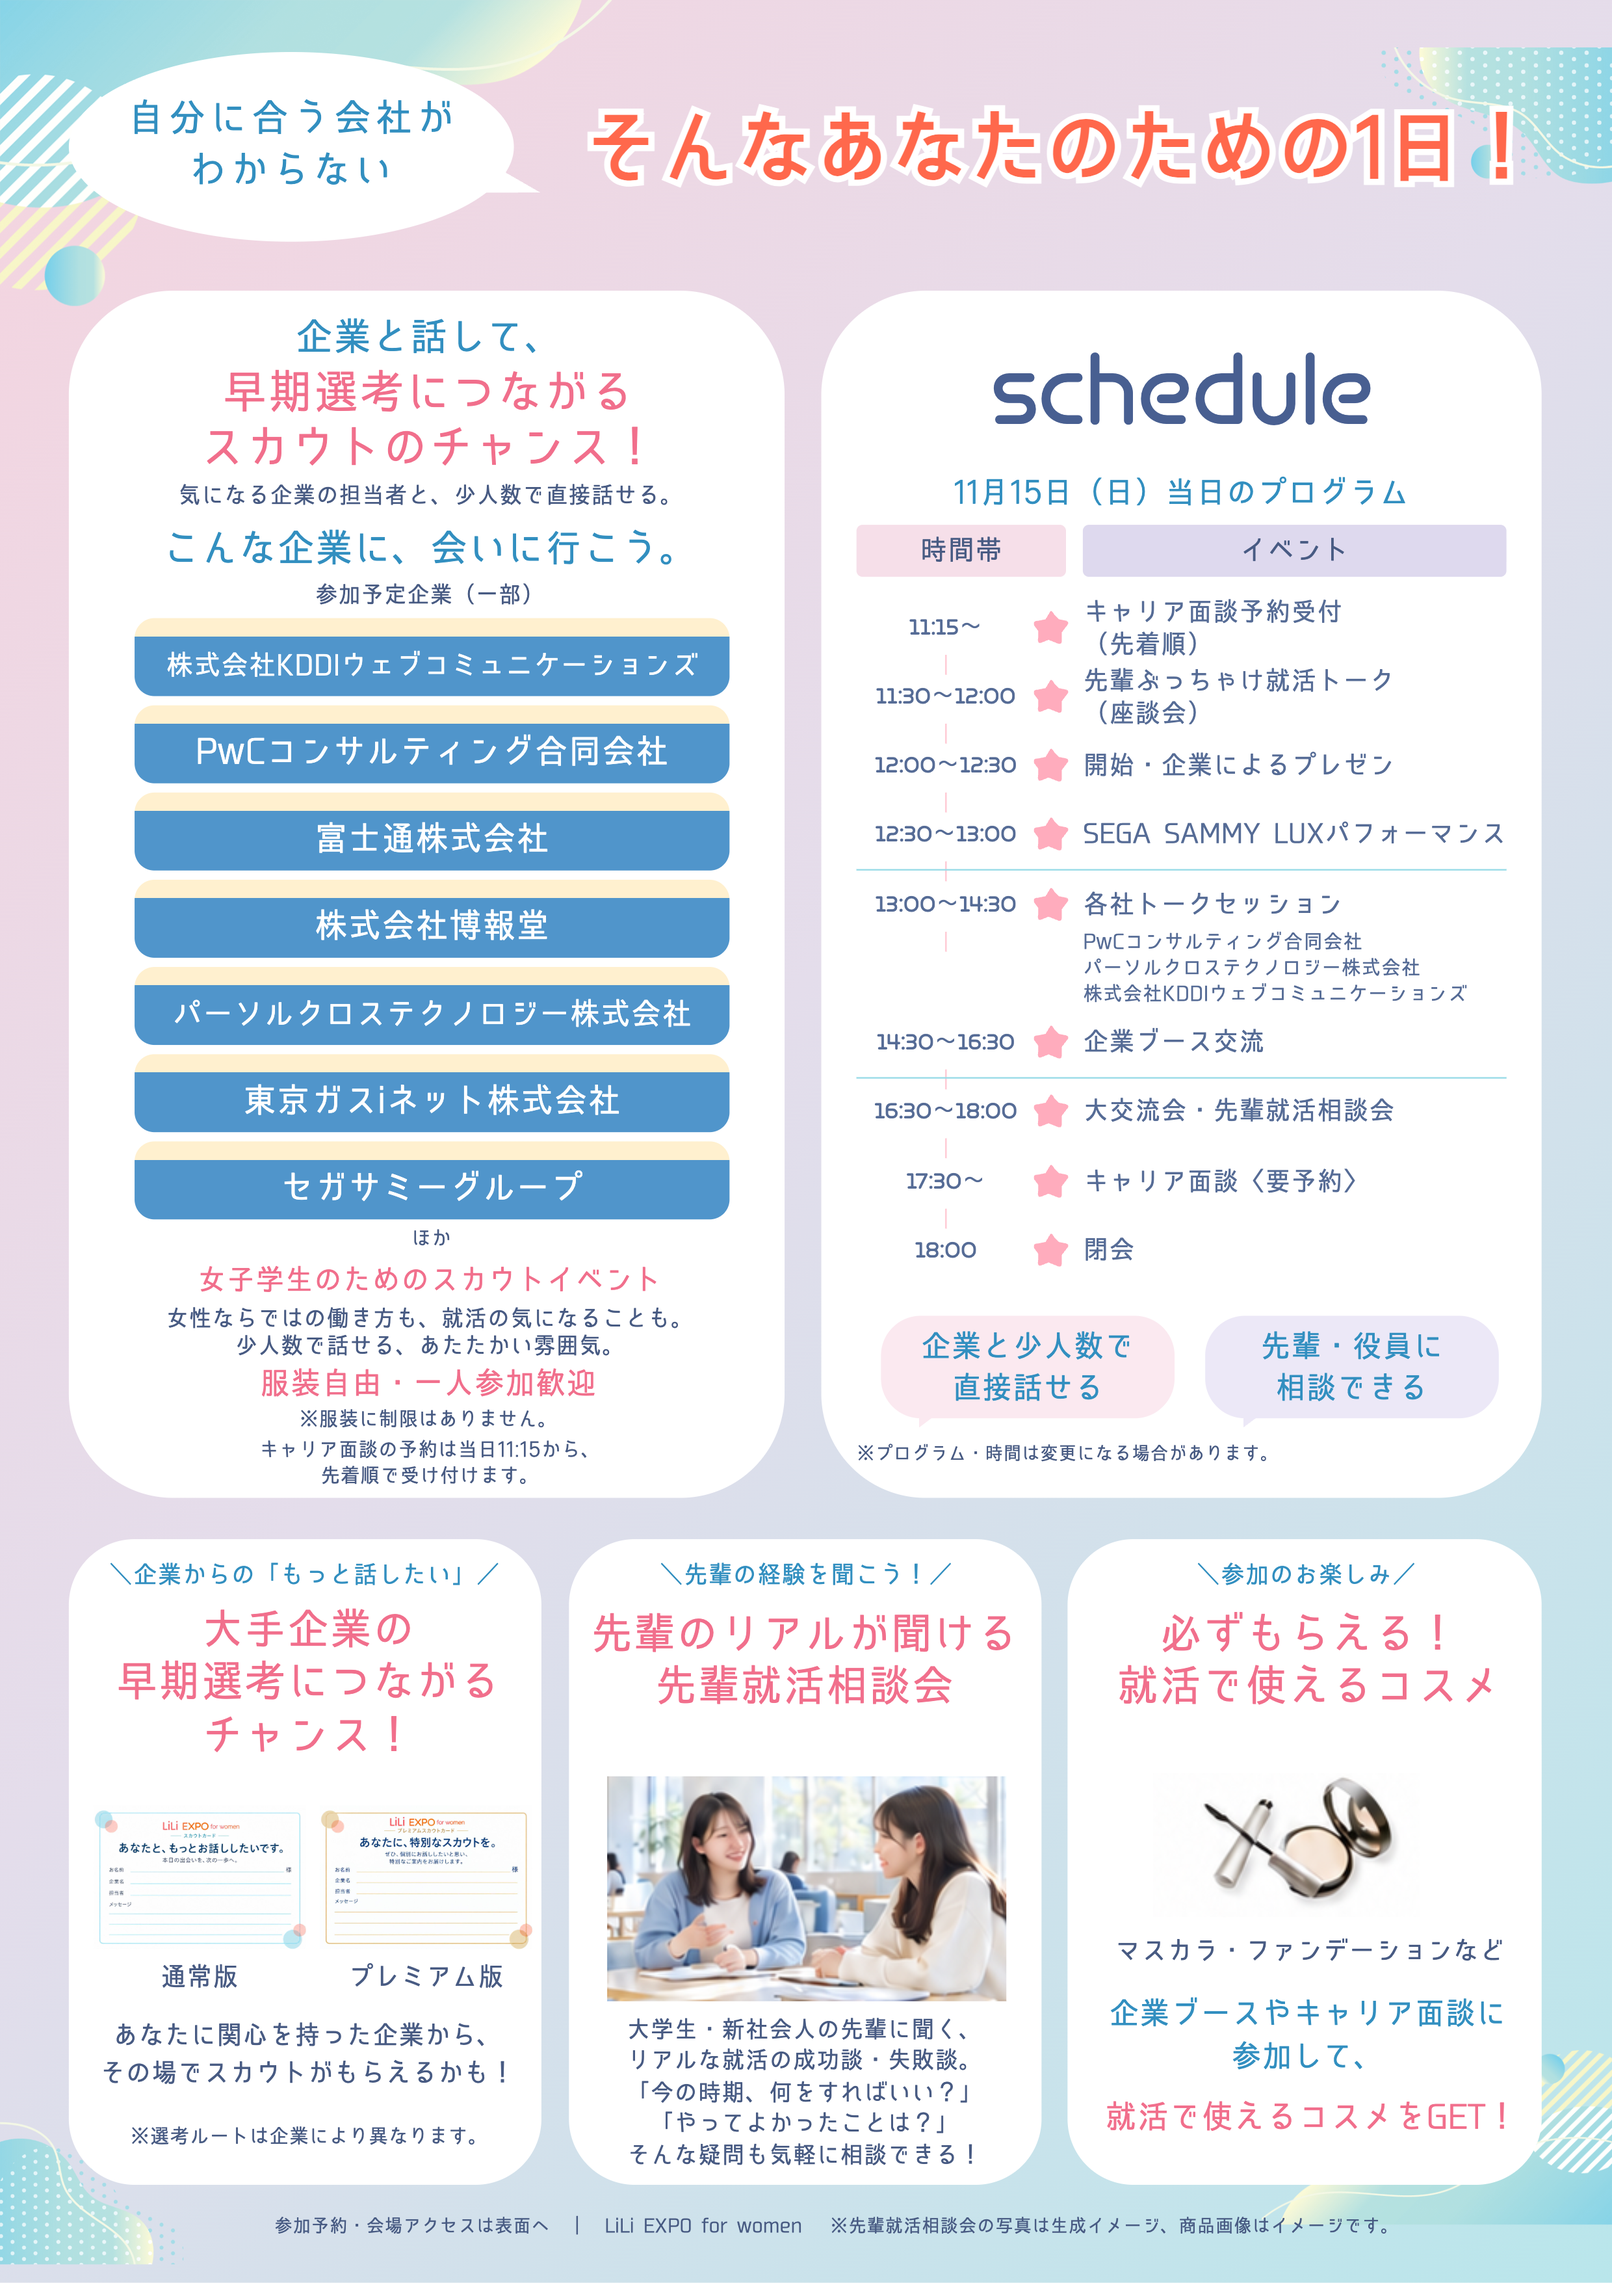
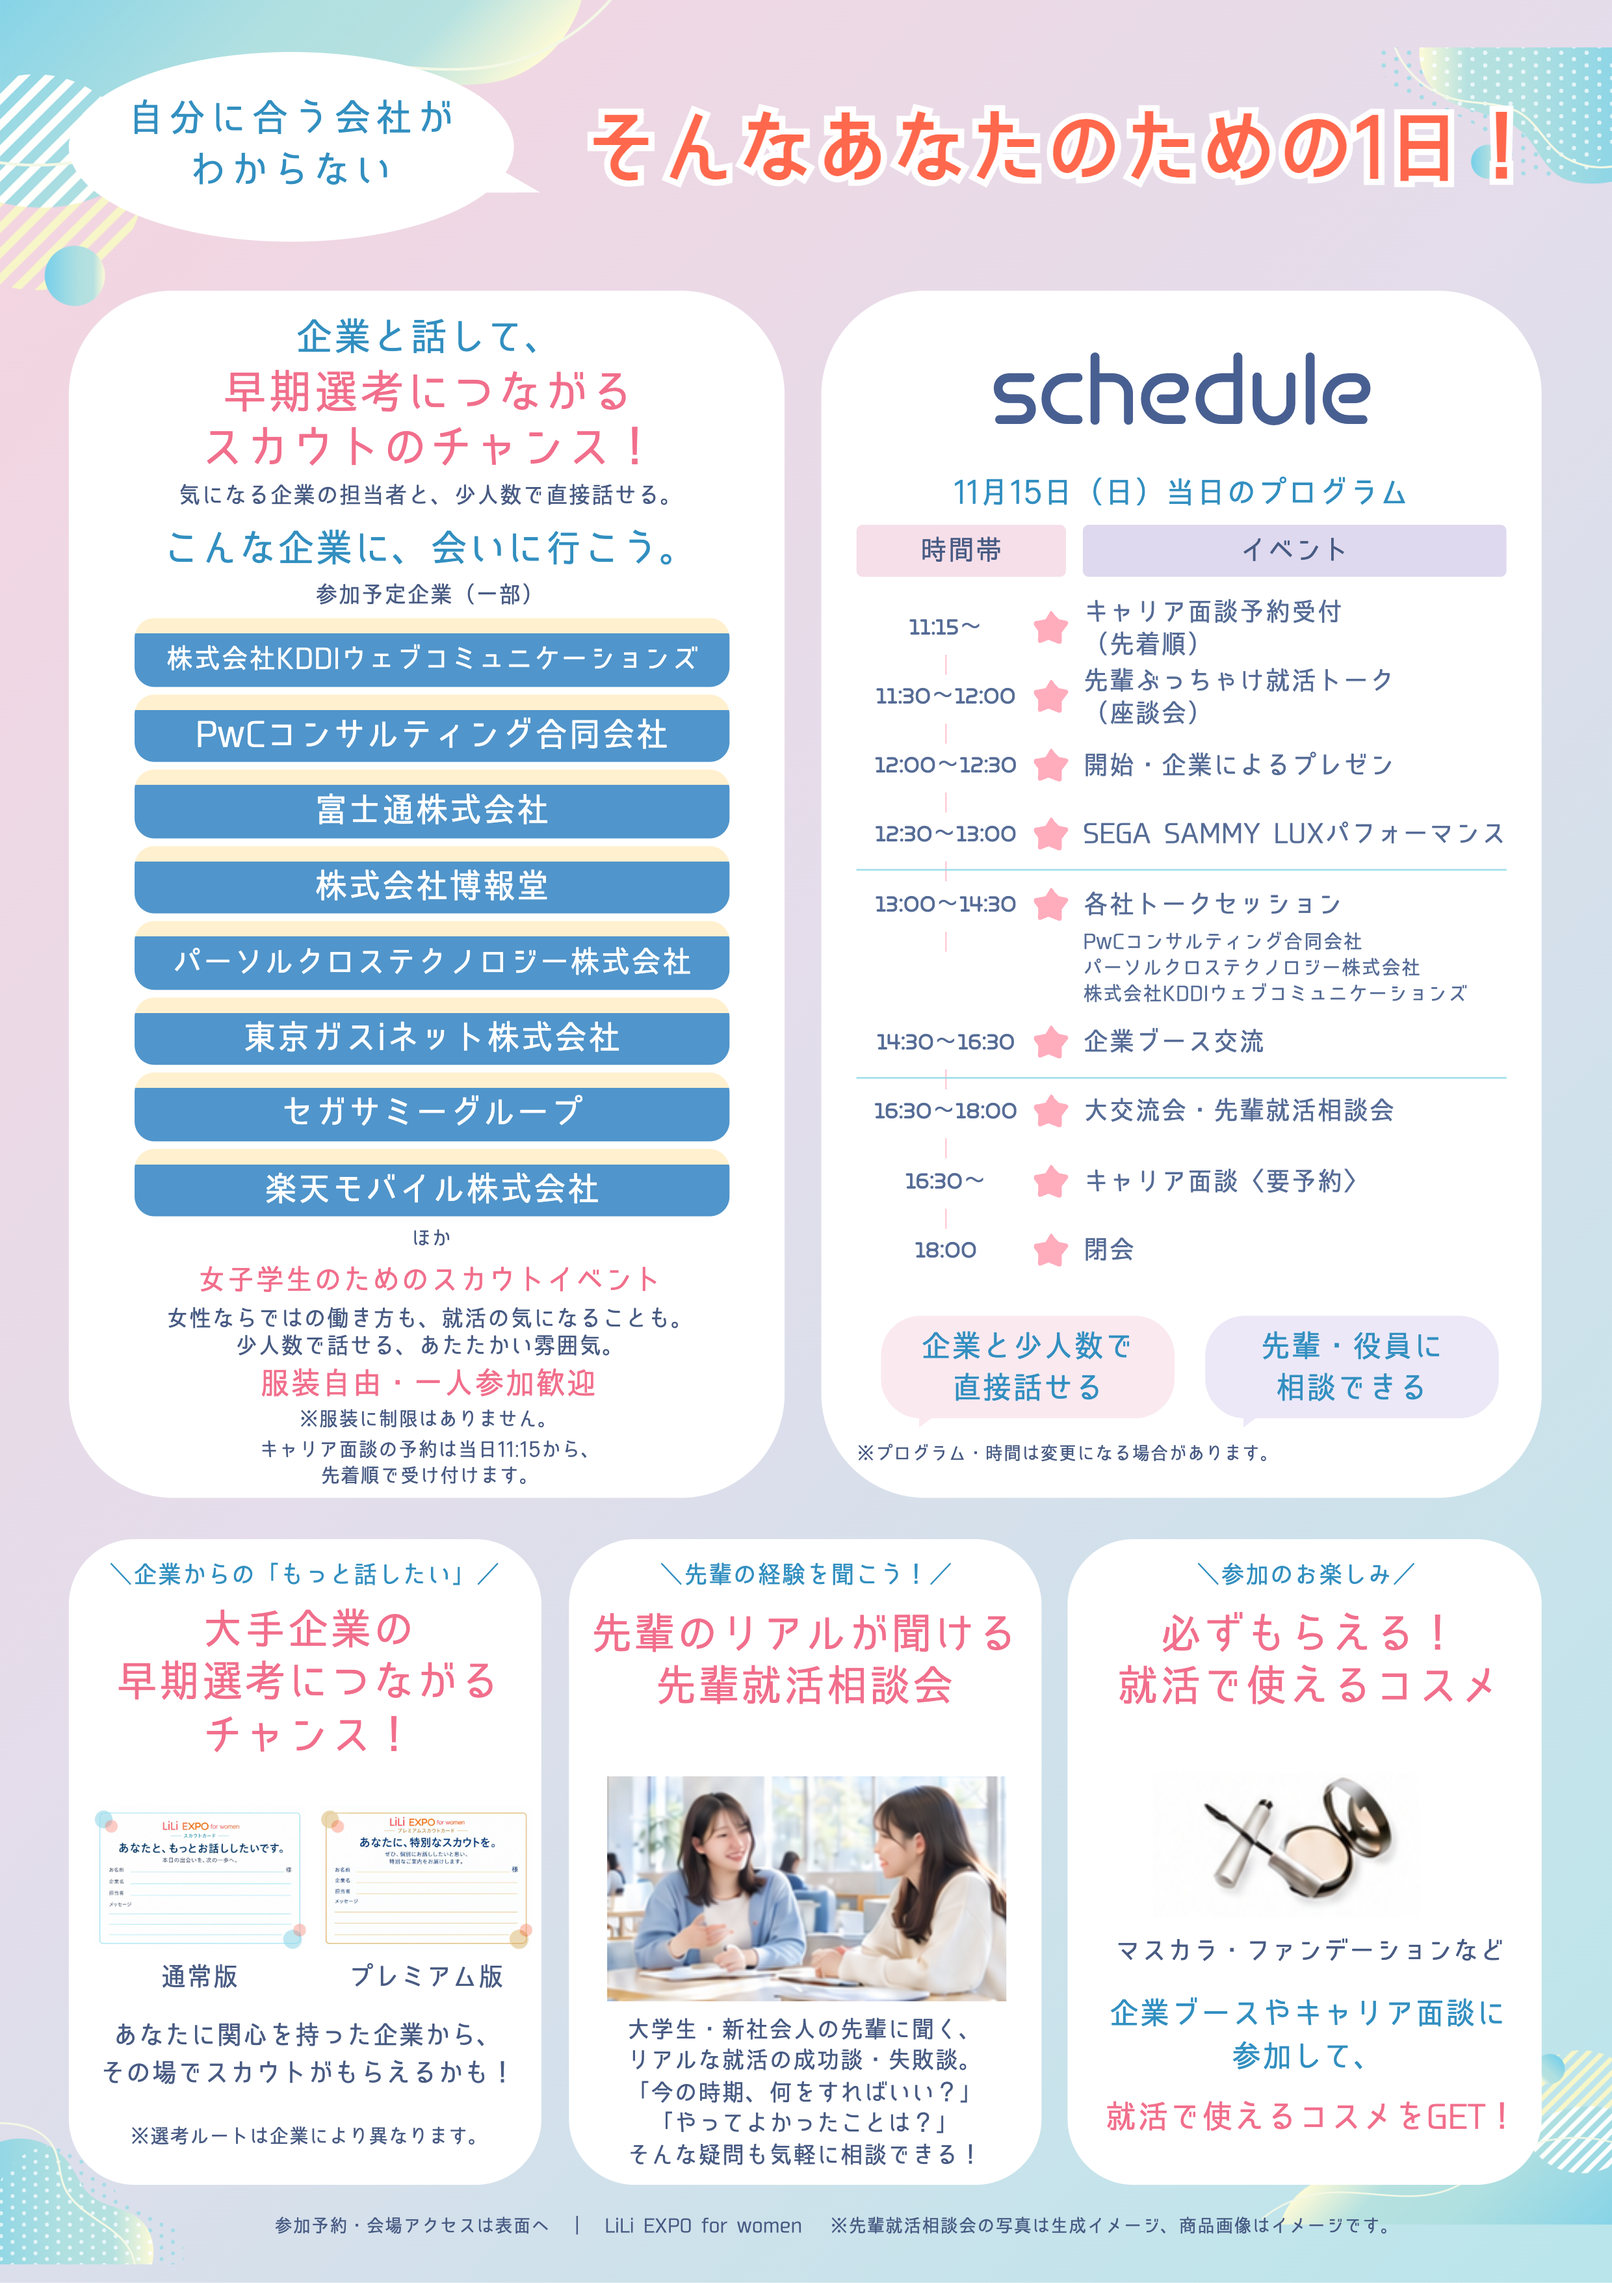
当日スケジュールとチラシ裏面を更新

Changed region(s): [[0.0621, 0.2794, 0.4657, 0.5278]]

diff --git a/index.html b/index.html
@@ -1670,7 +1670,7 @@
           </div>
 
           <div class="flyer-preview" id="flyerBackPreview">
-            <img src="assets/lili-expo-2026-11-15-back.png?v=4" alt="LiLi EXPO 2026年11月15日 最新チラシ 裏面" loading="lazy">
+            <img src="assets/lili-expo-2026-11-15-back.png?v=5" alt="LiLi EXPO 2026年11月15日 最新チラシ 裏面" loading="lazy">
           </div>
 
         </article>
@@ -1733,7 +1733,7 @@
         </div>
 
         <p>
-          集合 11時15分／開始 12時〜18時
+          集合 11時15分／プログラム 11時30分〜17時（キャリア面談は17時30分まで）
         </p>
 
       </div>
@@ -1762,16 +1762,16 @@
           </thead>
           <tbody>
             <tr>
-              <th scope="row"><span class="period-number">受付</span><time>11:15〜</time></th>
-              <td><span>CAREER COUNSELING</span><strong>キャリア面談予約受付〈先着順〉</strong><small>キャリア面談を希望する方は、受付時にお申し込みください</small></td>
+              <th scope="row"><span class="period-number">集合</span><time>11:15</time></th>
+              <td><span>RECEPTION</span><strong>新規学生集合</strong><small>受付後、会場へご案内します</small></td>
             </tr>
             <tr>
-              <th scope="row"><span class="period-number">座談会</span><time>11:30〜12:00</time></th>
-              <td><span>REAL JOB-HUNTING TALK</span><strong>先輩ぶっちゃけ就活トーク</strong><small>先輩のリアルな就活経験や、本音を聞ける座談会</small></td>
+              <th scope="row"><span class="period-number">プレゼン</span><time>11:30〜12:00</time></th>
+              <td><span>COMPANY PRESENTATION</span><strong>企業プレゼン</strong><small>参加企業の事業や仕事を知る</small></td>
             </tr>
             <tr>
-              <th scope="row"><span class="period-number">START</span><time>12:00〜12:30</time></th>
-              <td><span>OPENING</span><strong>開始・企業によるプレゼン</strong><small>参加企業の事業や仕事を知る</small></td>
+              <th scope="row"><span class="period-number">特別講演</span><time>12:00〜12:30</time></th>
+              <td><span>GUEST TALK SESSION</span><strong>ゲスト企業トークセッション</strong><small>企業のリアルな働き方やキャリアについて聞く</small></td>
             </tr>
             <tr class="special-program-row">
               <th scope="row"><span class="period-number">特別公演</span><time>12:30〜13:00</time></th>
@@ -1788,24 +1788,20 @@
               </td>
             </tr>
             <tr>
-              <th scope="row"><span class="period-number">トーク</span><time>13:00〜14:30</time></th>
-              <td><span>COMPANY TALK SESSION</span><strong>各社トークセッション</strong><small>PwCコンサルティング合同会社／パーソルクロステクノロジー株式会社／株式会社KDDIウェブコミュニケーションズ</small></td>
+              <th scope="row"><span class="period-number">発表</span><time>13:00〜13:50</time></th>
+              <td><span>RESULT ANNOUNCEMENT</span><strong>結果発表</strong><small>プレゼンテーションの結果を発表します</small></td>
             </tr>
             <tr>
-              <th scope="row"><span class="period-number">第2部</span><time>14:30〜16:30</time></th>
-              <td><span>COMPANY BOOTH</span><strong>企業ブース交流</strong><small>担当者と直接話し、事業や仕事内容を知る</small></td>
+              <th scope="row"><span class="period-number">ブース</span><time>14:00〜16:00</time></th>
+              <td><span>COMPANY BOOTH</span><strong>ブース訪問</strong><small>担当者と直接話し、事業や仕事内容を知る</small></td>
             </tr>
             <tr>
-              <th scope="row"><span class="period-number">第3部</span><time>16:30〜18:00</time></th>
-              <td><span>NETWORKING</span><strong>大交流会・先輩就活相談会</strong><small>企業や学生と交流し、就活経験を先輩に聞く</small></td>
+              <th scope="row"><span class="period-number">交流</span><time>16:00〜17:00</time></th>
+              <td><span>NETWORKING</span><strong>大交流会</strong><small>企業や学生と気軽に交流する時間です</small></td>
             </tr>
             <tr>
-              <th scope="row"><span class="period-number">相談</span><time>17:30〜</time></th>
+              <th scope="row"><span class="period-number">面談</span><time>16:00〜17:30</time></th>
               <td><span>CAREER COUNSELING</span><strong>キャリア面談〈要予約〉</strong><small>役員・管理職と基本1対1。参加申込と同じフォームから予約</small></td>
-            </tr>
-            <tr>
-              <th scope="row"><span class="period-number">閉会</span><time>18:00</time></th>
-              <td><span>CLOSE</span><strong>閉会</strong><small>気をつけてお帰りください</small></td>
             </tr>
           </tbody>
         </table>
@@ -1841,7 +1837,7 @@
           </div>
           <div>
             <dt>TIME</dt>
-            <dd>集合 11時15分／開始 12時〜18時</dd>
+            <dd>集合 11時15分／プログラム 11時30分〜17時<small>キャリア面談は17時30分まで</small></dd>
           </div>
           <div>
             <dt>VENUE</dt>
@@ -1919,7 +1915,7 @@
 
         <details>
           <summary>開催時間は決まっていますか？</summary>
-          <p>集合は11時15分、イベントは12時開始・18時終了の予定です。</p>
+          <p>集合は11時15分、プログラムは11時30分から17時までです。予約制のキャリア面談は17時30分まで行います。</p>
         </details>
 
         <details>
@@ -2241,7 +2237,7 @@
         eventTime: "集合 11時15分",
         eventVenue: "住友不動産大崎ガーデンタワー",
         eventCapacity: "女子学生100名限定",
-        entryCapacity: "2026年11月15日（日） / 集合 11時15分・開始 12時"
+        entryCapacity: "2026年11月15日（日） / 集合 11時15分・開始 11時30分"
       };
 
       Object.keys(onlineEventContent).forEach(function (id) {
@@ -2372,11 +2368,11 @@
       var chatReplies = {
         date: {
           label: "開催日時・参加方法",
-          answer: "2026年11月15日（日）、住友不動産大崎ガーデンタワー内のセガサミーホールディングス株式会社 本社内会場で開催します。集合は11時15分、イベントは12時開始・18時終了の予定です。"
+          answer: "2026年11月15日（日）、住友不動産大崎ガーデンタワー内のセガサミーホールディングス株式会社 本社内会場で開催します。集合は11時15分、プログラムは11時30分から17時までです。予約制のキャリア面談は17時30分まで行います。"
         },
         schedule: {
           label: "当日のプログラム",
-          answer: "先輩ぶっちゃけ就活トーク、企業プレゼン、SEGA SAMMY LUXの特別公演、各社トークセッション、企業ブース交流、大交流会・先輩就活相談会、予約制のキャリア面談を予定しています。"
+          answer: "企業プレゼン、ゲスト企業トークセッション、SEGA SAMMY LUXの特別公演、結果発表、ブース訪問、大交流会、予約制のキャリア面談を予定しています。"
         },
         scout: {
           label: "スカウトカードについて",
